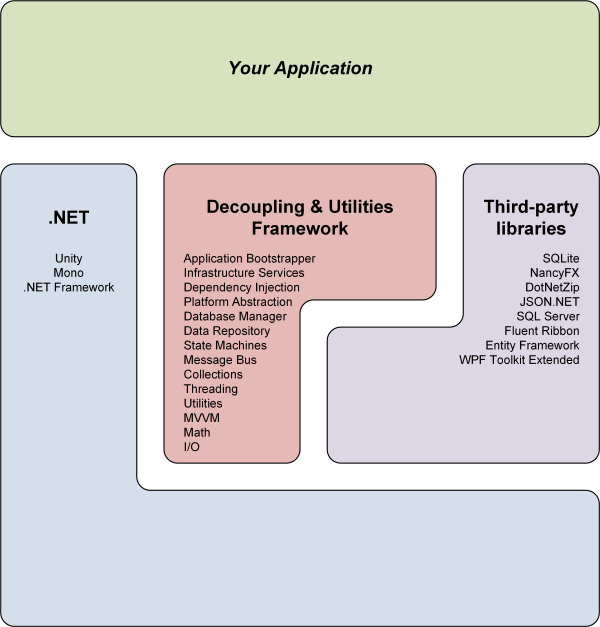
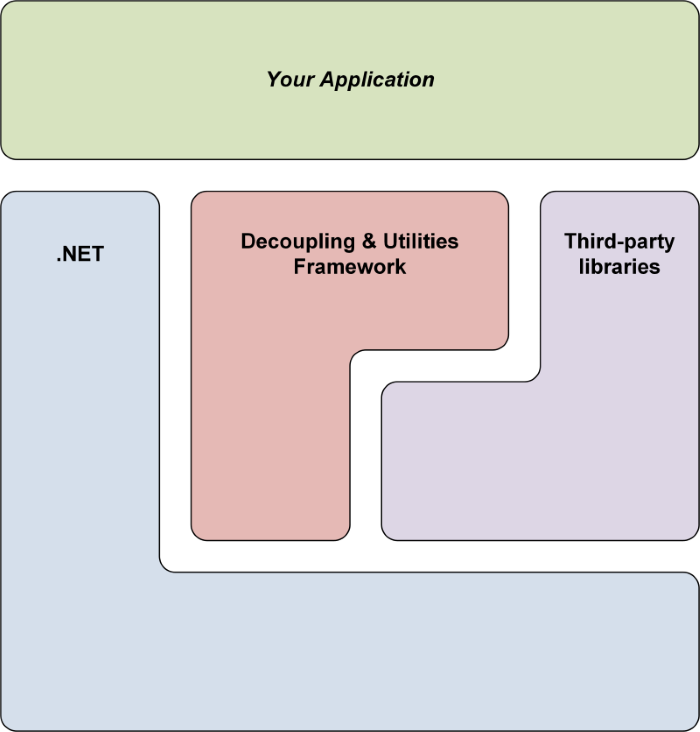
#4 Updated project documentation #66 Added license file for 7zip binary (only used for build, not redistributed) #67 Fixed namespace for WindowsBootstrapper and CrossPlatformBootstrapper

diff --git a/RI.Framework.CrossPlatform.Common/Bootstrapping/CrossPlatformBootstrapper.cs b/RI.Framework.CrossPlatform.Common/Bootstrapping/CrossPlatformBootstrapper.cs
@@ -1,13 +1,12 @@
 using System;
 
-using RI.Framework.Bootstrapping;
 using RI.Framework.CrossPlatform.Cryptography;
 using RI.Framework.CrossPlatform.Users;
 
 
 
 
-namespace RI.Framework.Services
+namespace RI.Framework.Bootstrapping
 {
 	/// <summary>
 	///     Implements a cross-platform application bootstrapper.

diff --git a/RI.Framework.Windows.Common/Bootstrapping/WindowsBootstrapper.cs b/RI.Framework.Windows.Common/Bootstrapping/WindowsBootstrapper.cs
@@ -1,13 +1,12 @@
 using System;
 
-using RI.Framework.Bootstrapping;
 using RI.Framework.Windows.Cryptography;
 using RI.Framework.Windows.Users;
 
 
 
 
-namespace RI.Framework.Services
+namespace RI.Framework.Bootstrapping
 {
 	/// <summary>
 	///     Implements a Windows application bootstrapper.

diff --git a/DOCUMENTATION.md b/DOCUMENTATION.md
@@ -1,8 +1,10 @@
 # Documentation
 
+Please read the [overview](README.md) to get started and to get additional information.
+
 ## Using the framework
 
-Each release contains an API documentation which describes the assemblies, namespaces, types, and members of the various functions.
+Each release contains a description about its assemblies, namespaces, types, and members.
 
 ## History, Motivation & Reinventing the wheel
 
@@ -18,7 +20,7 @@ The motivation to write a particular function and put it into the framework was 
  * Productivity concerns ("Learning/customizing takes at least as long as writing it myself").
  * Naivety, [not-invented-here](https://en.wikipedia.org/wiki/Not_invented_here) syndrom, overconfidence ("I can do this better").
  * Educational purposes ("I need to experience the problems of implementing this myself").
- * Fun (Ever tried to write a composition container yourself? What an adventure!).
+ * Fun (ever tried to write a composition container yourself? What an adventure!).
 
 Therefore, keep in mind that this framework is not a silver bullet and you should take the time to check whether it (or parts of it...) is really what you need.
 
@@ -37,6 +39,7 @@ A few C# projects are also "misused" for file grouping/organization without actu
 The build procedure relies entirely on Visual Studio as custom steps are implemented in batch scripts which are tied to Visual Studio project prebuild and postbuild events.
 
 The build output is generated in the *_Output* folder in the directory of the Visual Studio solution.
+The redistributable package is generated in the *_Packages* folder in the directory of the Visual Studio solution.
 
 Note that to save time while doing "normal" work on the code, not all Visual Studio projects are built by default when the soultion is (re)built.
 
@@ -49,91 +52,90 @@ If a certain functionality is not used, simply do not use the corresponding name
 
 ## Contents
 
+The following abbrevations are used to indicate the supported runtimes/targets and/or platform:<br>
 N = .NET Framework <br> M = Mono <br> U = Unity <br> W = Windows (.NET Framework) <br> L = Linux (Mono)
-
-See the [documentation](DOCUMENTATION.md) for more details about how to use the Decoupling and Utilities Framework and its separation into namespaces and assemblies.
 
 ### Base assemblies
 
-| Assembly                              | Platform | Remarks                                                                                    |
-| ------------------------------------- | -------- | ------------------------------------------------------------------------------------------ |
-| RI.Framework.NetFx.dll                | N, M     | Main assembly for the .NET Framework and Mono                                              |
-| RI.Framework.Unity.dll                | U        | Main assembly for Unity                                                                    |
+| Assembly                              | Runtime / Target / Platform | Remarks                                                                                    |
+| ------------------------------------- | --------------------------- | ------------------------------------------------------------------------------------------ |
+| RI.Framework.NetFx.dll                | N, M                        | Main assembly for the .NET Framework and Mono                                              |
+| RI.Framework.Unity.dll                | U                           | Main assembly for Unity                                                                    |
 
 ### Platform-dependent assemblies
 
-| Assembly                              | Platform | Remarks                                                                                    |
-| ------------------------------------- | -------- | ------------------------------------------------------------------------------------------ |
-| RI.Framework.Windows.Shared.dll       | W        | Additional Windows functions                                                               |
-| RI.Framework.Windows.Wpf.dll          | W        | Additional Windows Presentation Foundation functions                                       |
-| RI.Framework.Windows.Forms.dll        | W        | Additional Windows Forms functions                                                         |
-| RI.Framework.Windows.Service.dll      | W        | Additional Winows Service functions                                                        |
-| RI.Framework.Linux.Shared.dll         | L        | Additional Linux functions                                                                 |
-| RI.Framework.CrossPlatform.Shared.dll | N, M     | Platform-independent wrapper for RI.Framework.Windows.\*.dll and RI.Framework.Linux.\*.dll |
+| Assembly                              | Runtime / Target / Platform | Remarks                                                                                    |
+| ------------------------------------- | --------------------------- | ------------------------------------------------------------------------------------------ |
+| RI.Framework.Windows.Common.dll       | W                           | Additional Windows functions                                                               |
+| RI.Framework.Windows.Wpf.dll          | W                           | Additional Windows Presentation Foundation functions                                       |
+| RI.Framework.Windows.Forms.dll        | W                           | Additional Windows Forms functions                                                         |
+| RI.Framework.Windows.Service.dll      | W                           | Additional Winows Service functions                                                        |
+| RI.Framework.Linux.Common.dll         | L                           | Additional Linux functions                                                                 |
+| RI.Framework.CrossPlatform.Common.dll | N, M                        | Platform-independent wrapper for RI.Framework.Windows.\*.dll and RI.Framework.Linux.\*.dll |
 
 ### Extension assemblies
 
-| Library / Framework                                                 | Version   | Assembly                                                                                                             | Platform          |
-| ------------------------------------------------------------------- | --------- | -------------------------------------------------------------------------------------------------------------------- | ----------------- |
-| [Entity Framework 6.x](https://github.com/aspnet/EntityFramework6)  | 6.2.0     | RI.Framework.Extensions.EF6.dll<br>RI.Framework.Extensions.SQLiteEF6.dll<br>RI.Framework.Extensions.SqlServerEF6.dll | N, M              |
-| [SQLite](https://system.data.sqlite.org/)                           | 1.0.108   | RI.Framework.Extensions.SQLite.dll<br>RI.Framework.Extensions.SQLiteEF6.dll                                          | N, M              |
-| [SQL Server](https://www.microsoft.com/en-us/sql-server)            | 2008+     | RI.Framework.Extensions.SqlServer.dll<br>RI.Framework.Extensions.SqlServerEF6.dll                                    | N, M              |
-| [Nancy Framework](https://github.com/NancyFx/Nancy)                 | 1.4.4     | RI.Framework.Extensions.Nancy.dll<br>RI.Framework.Extensions.NancyJson.dll                                           | N, M              |
-| [DotNetZip](https://dotnetzip.codeplex.com/)                        | 1.11.1    | RI.Framework.Extensions.DotNetZip.dll                                                                                | N, M              |
-| [EPPlus](https://github.com/JanKallman/EPPlus)                      | 4.1.1     | RI.Framework.Extensions.EPPlus.dll                                                                                   | N, M              |
-| [Newtonsoft JSON](https://github.com/JamesNK/Newtonsoft.Json)       | 10.0.3    | RI.Framework.Extensions.Json.dll<br>RI.Framework.Extensions.NancyJson.dll                                            | N, M              |
-| [Bouncy Castle](https://github.com/onovotny/bc-csharp)              | 1.8.1.3   | RI.Framework.Extensions.BouncyCastle.dll                                                                             | N, M              |
-| [Extended WPF Toolkit](https://github.com/xceedsoftware/wpftoolkit) | 3.2.0     | RI.Framework.Extensions.WpfToolkit.dll                                                                               | W                 |
-| [Fluent Ribbon](https://github.com/fluentribbon/Fluent.Ribbon)      | 6.0.0.208 | RI.Framework.Extensions.FluentRibbon.dll                                                                             | W                 |
-| [Mono.Posix](https://github.com/mono/mono)                          | 4.5.0     | RI.Framework.Linux.Shared.dll                                                                                        | L                 |
+| Library / Framework                                                 | Version   | Assembly                                                                                                             | Runtime / Target / Platform | Remarks |
+| ------------------------------------------------------------------- | --------- | -------------------------------------------------------------------------------------------------------------------- | --------------------------- | ------- |
+| [Entity Framework 6.x](https://github.com/aspnet/EntityFramework6)  | 6.2.0     | RI.Framework.Extensions.EF6.dll<br>RI.Framework.Extensions.SQLiteEF6.dll<br>RI.Framework.Extensions.SqlServerEF6.dll | N, M                        |         |
+| [SQLite](https://system.data.sqlite.org/)                           | 1.0.108   | RI.Framework.Extensions.SQLite.dll<br>RI.Framework.Extensions.SQLiteEF6.dll                                          | N, M                        |         |
+| [SQL Server](https://www.microsoft.com/en-us/sql-server)            | 2008+     | RI.Framework.Extensions.SqlServer.dll<br>RI.Framework.Extensions.SqlServerEF6.dll                                    | N, M                        |         |
+| [Nancy Framework](https://github.com/NancyFx/Nancy)                 | 1.4.4     | RI.Framework.Extensions.Nancy.dll<br>RI.Framework.Extensions.NancyJson.dll                                           | N, M                        |         |
+| [DotNetZip](https://dotnetzip.codeplex.com/)                        | 1.10.1    | RI.Framework.Extensions.DotNetZip.dll                                                                                | N, M                        |         |
+| [EPPlus](https://github.com/JanKallman/EPPlus)                      | 4.1.1     | RI.Framework.Extensions.EPPlus.dll                                                                                   | N, M                        |         |
+| [Newtonsoft JSON](https://github.com/JamesNK/Newtonsoft.Json)       | 10.0.3    | RI.Framework.Extensions.Json.dll<br>RI.Framework.Extensions.NancyJson.dll                                            | N, M                        |         |
+| [Bouncy Castle](https://github.com/onovotny/bc-csharp)              | 1.8.1.3   | RI.Framework.Extensions.BouncyCastle.dll                                                                             | N, M                        |         |
+| [Extended WPF Toolkit](https://github.com/xceedsoftware/wpftoolkit) | 3.2.0     | RI.Framework.Extensions.WpfToolkit.dll                                                                               | W                           |         |
+| [Fluent Ribbon](https://github.com/fluentribbon/Fluent.Ribbon)      | 6.0.0.208 | RI.Framework.Extensions.FluentRibbon.dll                                                                             | W                           |         |
+| [Mono.Posix](https://github.com/mono/mono)                          | 4.5.0     | RI.Framework.Linux.Shared.dll                                                                                        | L                           |         |
 
 ### Decoupling namespaces
 
-| Functionality         | Namespace                               | Platform          | Remarks                                                                                          |
-| --------------------- | --------------------------------------- | ----------------- | ------------------------------------------------------------------------------------------------ |
-| Composition container | RI.Framework.Composition.\*             | N, M, U           | Dependency Injection (DI), Inversion-of-Control (IoC)                                            |
-| State machines        | RI.Framework.StateMachines.\*           | N, M, U           | Hierarchical, asynchronous state machines with signals, transients, and updates                  |
-| Message bus           | RI.Framework.Bus.\*                     | N, M              | Simple address and/or type based, local and/or distributed, asynchronous message bus             |
-| Database manager      | RI.Framework.Data.Database.\*           | N, M              | Low-level database: script management, connection management, schema versioning, cleanup, backup |
-| Repository            | RI.Framework.Data.Repository.\*         | N, M              | High-level database: generic repository, entities, views, filters, validation                    |
-| Model-View-ViewModel  | RI.Framework.Mvvm.\*                    | W                 | Model-View-ViewModel (MVVM) base infrastructure for Windows Presentation Foundation              |
-| Bootstrapper          | RI.Framework.Services                   | N, M, U           | Application and service bootstrapper                                                             |
-| Logging               | RI.Framework.Services.Logging.\*        | N, M, U           | Logging service                                                                                  |
-| Modularization        | RI.Framework.Services.Modularization.\* | N, M, U           | Service to modularize applications into functional blocks                                        |
-| Regions               | RI.Framework.Services.Regions.\*        | N, M              | Service to modularize GUIs into separate regions                                                 |
-| Settings              | RI.Framework.Services.Settings.\*       | N, M              | Application settings and configuration management service                                        |
-| Resources             | RI.Framework.Services.Resources.\*      | N, M              | Application resource management and loading service                                              |
-| Backup                | RI.Framework.Services.Backup.\*         | N, M              | Application data backup service                                                                  |
-| Dispatcher            | RI.Framework.Services.Dispatcher.\*     | U                 | Task dispatcher service for Unity                                                                |
+| Functionality         | Namespace                               | Runtime / Target / Platform | Remarks                                                                                          |
+| --------------------- | --------------------------------------- | --------------------------- | ------------------------------------------------------------------------------------------------ |
+| Bootstrapper          | RI.Framework.Bootstrapping.\*           | N, M, U                     | Application and service bootstrapper                                                             |
+| Composition container | RI.Framework.Composition.\*             | N, M, U                     | Dependency Injection (DI), Inversion-of-Control (IoC)                                            |
+| State machines        | RI.Framework.StateMachines.\*           | N, M, U                     | Hierarchical, asynchronous state machines with signals, transients, and updates                  |
+| Message bus           | RI.Framework.Bus.\*                     | N, M                        | Simple address and/or type based, local and/or distributed, asynchronous message bus             |
+| Database manager      | RI.Framework.Data.Database.\*           | N, M                        | Low-level database: script management, connection management, schema versioning, cleanup, backup |
+| Repository            | RI.Framework.Data.Repository.\*         | N, M                        | High-level database: generic repository, entities, views, filters, validation                    |
+| Model-View-ViewModel  | RI.Framework.Mvvm.\*                    | W                           | Model-View-ViewModel (MVVM) base infrastructure for Windows Presentation Foundation              |
+| Logging               | RI.Framework.Services.Logging.\*        | N, M, U                     | Logging service                                                                                  |
+| Modularization        | RI.Framework.Services.Modularization.\* | N, M, U                     | Service to modularize applications into functional blocks                                        |
+| Regions               | RI.Framework.Services.Regions.\*        | N, M                        | Service to modularize GUIs into separate regions                                                 |
+| Settings              | RI.Framework.Services.Settings.\*       | N, M                        | Application settings and configuration management service                                        |
+| Resources             | RI.Framework.Services.Resources.\*      | N, M                        | Application resource management and loading service                                              |
+| Backup                | RI.Framework.Services.Backup.\*         | N, M                        | Application data backup service                                                                  |
+| Dispatcher            | RI.Framework.Services.Dispatcher.\*     | U                           | Task dispatcher service for Unity                                                                |
 
 ### Utilities namespaces
 
-| Functionality         | Namespace                               | Platform          | Remarks                                                                                          |
-| --------------------- | --------------------------------------- | ----------------- | ------------------------------------------------------------------------------------------------ |
-| Basic utilities       | RI.Framework.Utilities.\*               | N, M, U           | Utilities and extensions for basic CLR and BCL types and functions                               |
-| Components            | RI.Framework.ComponentModel             | N, M, U           | Types and utilities to componentize an application and to handle its dependencies                |
-| Collections           | RI.Framework.Collections.\*             | N, M, U           | Collection types and utilities                                                                   |
-| Direct LINQ           | RI.Framework.Collections.DirectLinq     | N, M, U           | AOT-compatible LINQ subset/replacement with immediate execution                                  |
-| I/O                   | RI.Framework.IO.\*                      | N, M, U           | Binary, text, stream types and utilities                                                         |
-| CSV                   | RI.Framework.IO.CSV                     | N, M, U           | Files and data with comma separated values                                                       |
-| INI                   | RI.Framework.IO.INI                     | N, M, U           | Files and data with key-value-pairs                                                              |
-| Paths                 | RI.Framework.IO.Paths                   | N, M, U           | Platform-independent file and directory path handling                                            |
-| Keyboard              | RI.Framework.IO.Keyboard                | W                 | Low-level keyboard access                                                                        |
-| Printer               | RI.Framework.IO.Printer                 | W                 | Low-level printer access (e.g. for POS printers)                                                 |
-| Serial                | RI.Framework.IO.Serial                  | W                 | Low-level serial port access                                                                     |
-| Mathematics           | RI.Framework.Mathematic.\*              | N, M, U           | Math types and utilities                                                                         |
-| Controllers           | RI.Framework.Mathematic.Controllers     | N, M, U           | PID controller                                                                                   |
-| Threading             | RI.Framework.Threading.\*               | N, M, U           | Threading types and utilities                                                                    |
-| Thread dispatcher     | RI.Framework.Threading.Dispatcher       | N, M              | Platform-independent dispatcher with priorities, timers, task scheduler, synchronization context |
-| Windows               | RI.Framework.Windows.\*                 | W                 | Windows platform-specific functions                                                              |
-| Linux                 | RI.Framework.Linux.\*                   | L                 | Linux platform-specific functions                                                                |
-| Cross-platform        | RI.Framework.CrossPlatform.\*           | N, M              | Platform-independent wrapper for RI.Framework.Windows.\* and RI.Framework.Linux.\*               |
+| Functionality         | Namespace                               | Runtime / Target / Platform | Remarks                                                                                          |
+| --------------------- | --------------------------------------- | --------------------------- | ------------------------------------------------------------------------------------------------ |
+| Basic utilities       | RI.Framework.Utilities.\*               | N, M, U                     | Utilities and extensions for basic CLR and BCL types and functions                               |
+| Components            | RI.Framework.ComponentModel             | N, M, U                     | Types and utilities to componentize an application and to handle its dependencies                |
+| Collections           | RI.Framework.Collections.\*             | N, M, U                     | Collection types and utilities                                                                   |
+| Direct LINQ           | RI.Framework.Collections.DirectLinq     | N, M, U                     | AOT-compatible LINQ subset/replacement with immediate execution                                  |
+| I/O                   | RI.Framework.IO.\*                      | N, M, U                     | Binary, text, stream types and utilities                                                         |
+| CSV                   | RI.Framework.IO.CSV                     | N, M, U                     | Files and data with comma separated values                                                       |
+| INI                   | RI.Framework.IO.INI                     | N, M, U                     | Files and data with key-value-pairs                                                              |
+| Paths                 | RI.Framework.IO.Paths                   | N, M, U                     | Platform-independent file and directory path handling                                            |
+| Keyboard              | RI.Framework.IO.Keyboard                | W                           | Low-level keyboard access                                                                        |
+| Printer               | RI.Framework.IO.Printer                 | W                           | Low-level printer access (e.g. for POS printers)                                                 |
+| Serial                | RI.Framework.IO.Serial                  | W                           | Low-level serial port access                                                                     |
+| Mathematics           | RI.Framework.Mathematic.\*              | N, M, U                     | Math types and utilities                                                                         |
+| Controllers           | RI.Framework.Mathematic.Controllers     | N, M, U                     | PID controller                                                                                   |
+| Threading             | RI.Framework.Threading.\*               | N, M, U                     | Threading types and utilities                                                                    |
+| Thread dispatcher     | RI.Framework.Threading.Dispatcher       | N, M                        | Platform-independent dispatcher with priorities, timers, task scheduler, synchronization context |
+| Windows               | RI.Framework.Windows.\*                 | W                           | Windows platform-specific functions                                                              |
+| Linux                 | RI.Framework.Linux.\*                   | L                           | Linux platform-specific functions                                                                |
+| Cross-platform        | RI.Framework.CrossPlatform.\*           | N, M                        | Platform-independent wrapper for RI.Framework.Windows.\* and RI.Framework.Linux.\*               |
 
 ### Extension namespaces
 
-| Library / Framework                                                | Namespace                      | Platform          |
-| ------------------------------------------------------------------ | ------------------------------ | ----------------- |
-| [Entity Framework 6.x](https://github.com/aspnet/EntityFramework6) | RI.Framework.Data.EF.\*        | N, M, U           |
-| [SQLite](https://system.data.sqlite.org/)                          | RI.Framework.Data.SQLite.\*    | N, M, U           |
-| [SQL Server](https://www.microsoft.com/en-us/sql-server)           | RI.Framework.Data.SqlServer.\* | N, M, U           |
-| [Nancy Framework](https://github.com/NancyFx/Nancy)                | RI.Framework.Web.Nancy.\*      | N, M, U           |
+| Library / Framework                                                | Namespace                      | Runtime / Target / Platform | Remarks |
+| ------------------------------------------------------------------ | ------------------------------ | --------------------------- | ------- |
+| [Entity Framework 6.x](https://github.com/aspnet/EntityFramework6) | RI.Framework.Data.EF.\*        | N, M                        |         |
+| [SQLite](https://system.data.sqlite.org/)                          | RI.Framework.Data.SQLite.\*    | N, M                        |         |
+| [SQL Server](https://www.microsoft.com/en-us/sql-server)           | RI.Framework.Data.SqlServer.\* | N, M                        |         |
+| [Nancy Framework](https://github.com/NancyFx/Nancy)                | RI.Framework.Web.Nancy.\*      | N, M                        |         |

diff --git a/README.md b/README.md
@@ -4,6 +4,8 @@ A framework for .NET, Mono, and Unity.
 
 ## Releases
 
+[Changelog](CHANGELOG.md)
+
 *no release yet*
 
 ## Overview
@@ -12,14 +14,13 @@ The Decoupling & Utilities Framework is a collection of various functions for di
 
 ![Overview](README-overview.png)
 
-TODO
-It contains...
- * ...functional blocks for application infrastructure and services common to most applications (e.g. bootstrapper, logging, settings, resources, ...)
- * ...types which help to create decoupled and maintainable code (e.g. dependency injection, database manager, data repository, state machines, message bus, ...)
- * ...asorted small helpers and utilities (e.g. collections, threading, MVVM, math, I/O, ...)
- * ...extensions for other libraries/frameworks to use them with the Decoupling & Utilities Framework (e.g. SQLite, Entity Framework, ...)
+In general, it contains functions to help you...
+ * ...reduce the amount of boilerplate code you need to write
+ * ...decouple your application components/modules and make your codebase more maintainable and extensible
+ * ...add functionality to your application by providing implementations for application infrastructure and services used by most applications
+ * ...save time by providing functionality not part of .NET or third-party libraries
 
- TODO
+![Content](README-content.png)
 
 All those functions are mostly independent of each other and can be used individually.
 So you can simply ignore functions you do not want to use.
@@ -32,6 +33,8 @@ The "decoupling" part on the other hand has a more narrower target audience as i
  * Desktop applications
  * Desktop games
  * Server applications
+
+Please read the [project documentation](DOCUMENTATION.md) to get a more complete overview.
 
 ## Compatibility
 
@@ -47,19 +50,19 @@ Not all functions are available for all runtimes/targets or on all platforms. Se
 
 The dependencies only apply if the corresponding extension is used. Otherwise there are no dependencies besides the used runtime/target and platform.
 
-| Library / Framework                                                 | Version   | Runtime / Target     |
-| ------------------------------------------------------------------- | --------- | -------------------- |
-| [Entity Framework 6.x](https://github.com/aspnet/EntityFramework6)  | 6.2.0     | .NET Framework, Mono |
-| [SQLite](https://system.data.sqlite.org/)                           | 1.0.108   | .NET Framework, Mono |
-| [SQL Server](https://www.microsoft.com/en-us/sql-server)            | 2008+     | .NET Framework, Mono |
-| [Nancy Framework](https://github.com/NancyFx/Nancy)                 | 1.4.4     | .NET Framework, Mono |
-| [DotNetZip](https://dotnetzip.codeplex.com/)                        | 1.11.1    | .NET Framework, Mono |
-| [EPPlus](https://github.com/JanKallman/EPPlus)                      | 4.1.1     | .NET Framework, Mono |
-| [Newtonsoft JSON](https://github.com/JamesNK/Newtonsoft.Json)       | 10.0.3    | .NET Framework, Mono |
-| [Bouncy Castle](https://github.com/onovotny/bc-csharp)              | 1.8.1.3   | .NET Framework, Mono |
-| [Extended WPF Toolkit](https://github.com/xceedsoftware/wpftoolkit) | 3.2.0     | .NET Framework       |
-| [Fluent Ribbon](https://github.com/fluentribbon/Fluent.Ribbon)      | 6.0.0.208 | .NET Framework       |
-| [Mono.Posix](https://github.com/mono/mono)                          | 4.5.0     | Mono                 |
+| Library / Framework                                                 | Version   | Runtime / Target     | Remarks |
+| ------------------------------------------------------------------- | --------- | -------------------- | ------- |
+| [Entity Framework 6.x](https://github.com/aspnet/EntityFramework6)  | 6.2.0     | .NET Framework, Mono |         |
+| [SQLite](https://system.data.sqlite.org/)                           | 1.0.108   | .NET Framework, Mono |         |
+| [SQL Server](https://www.microsoft.com/en-us/sql-server)            | 2008+     | .NET Framework, Mono |         |
+| [Nancy Framework](https://github.com/NancyFx/Nancy)                 | 1.4.4     | .NET Framework, Mono |         |
+| [DotNetZip](https://dotnetzip.codeplex.com/)                        | 1.10.1    | .NET Framework, Mono |         |
+| [EPPlus](https://github.com/JanKallman/EPPlus)                      | 4.1.1     | .NET Framework, Mono |         |
+| [Newtonsoft JSON](https://github.com/JamesNK/Newtonsoft.Json)       | 10.0.3    | .NET Framework, Mono |         |
+| [Bouncy Castle](https://github.com/onovotny/bc-csharp)              | 1.8.1.3   | .NET Framework, Mono |         |
+| [Extended WPF Toolkit](https://github.com/xceedsoftware/wpftoolkit) | 3.2.0     | .NET Framework       |         |
+| [Fluent Ribbon](https://github.com/fluentribbon/Fluent.Ribbon)      | 6.0.0.208 | .NET Framework       |         |
+| [Mono.Posix](https://github.com/mono/mono)                          | 4.5.0     | Mono                 |         |
 
 ## Roadmap
 
@@ -90,6 +93,8 @@ The long-term roadmap includes several large enhancements:
 Each release contains a description about its assemblies, namespaces, types, and members.
 
 The project itself and its structure/organization is described in the [project documentation](DOCUMENTATION.md).
+
+The version history is documented in the [changelog](CHANGELOG.md).
 
 ## Contribution & Issues
 

diff --git a/CONTRIBUTING.md b/CONTRIBUTING.md
@@ -1,5 +1,7 @@
 # Contribution
 
+Please read the [overview](README.md) to get started and to get additional information.
+
 ## General
 
 At the moment, [issues](https://github.com/RotenInformatik/RI_Framework/issues) are the preferred way for contributions.
@@ -8,20 +10,21 @@ You are of course welcome to submit pull request from your own fork as well, but
 
 ## Issues
 
-An issue must follow the following rules, otherwise it will be closed immediately without further consideration.
+An issue must follow the following rules, otherwise it will be closed immediately without further consideration:
 
- * Everything has to be in proper English language.
+ * Everything has to be in English language.
  * Issues which represent bugs have a higher chance of being accepted if they contain a description about how to reproduce them.
 
 ## Pull requests
 
-A pull request must follow the following rules, otherwise it will be closed immediately without further consideration.
+A pull request must follow the following rules, otherwise it will be closed immediately without further consideration:
 
- * Everything has to be in proper English language.
+ * Everything has to be in English language.
  * The existing code style must be followed.
- * Structural changes (deleting, creating, renaming, moving, copying of files or directories) are only accepted if there is a corresponding open issue.
- * Namespace changes are only accepted if there is a corresponding open issue.
- * Dependency changes (removing, adding, changing of assembly references or NuGet packages) are only accepted if there is a corresponding open issue.
+ * The following is only accepted if there is a corresponding open issue:
+   * Structural changes (deleting, creating, renaming, moving, copying of files or directories).
+   * Namespace changes.
+   * Dependency changes (removing, adding, changing of assembly references or NuGet packages).
  * A unit test must be written (if not yet existing) or modified (if existing) for each created or modified type and/or member.
  * The following must always have proper XML comments (also check the generated SHFB documentation for completeness):
    * Namespaces

diff --git a/CHANGELOG.md b/CHANGELOG.md
@@ -1,0 +1,5 @@
+# Changelog
+
+[Releases](README.md)
+
+*no release yet*
